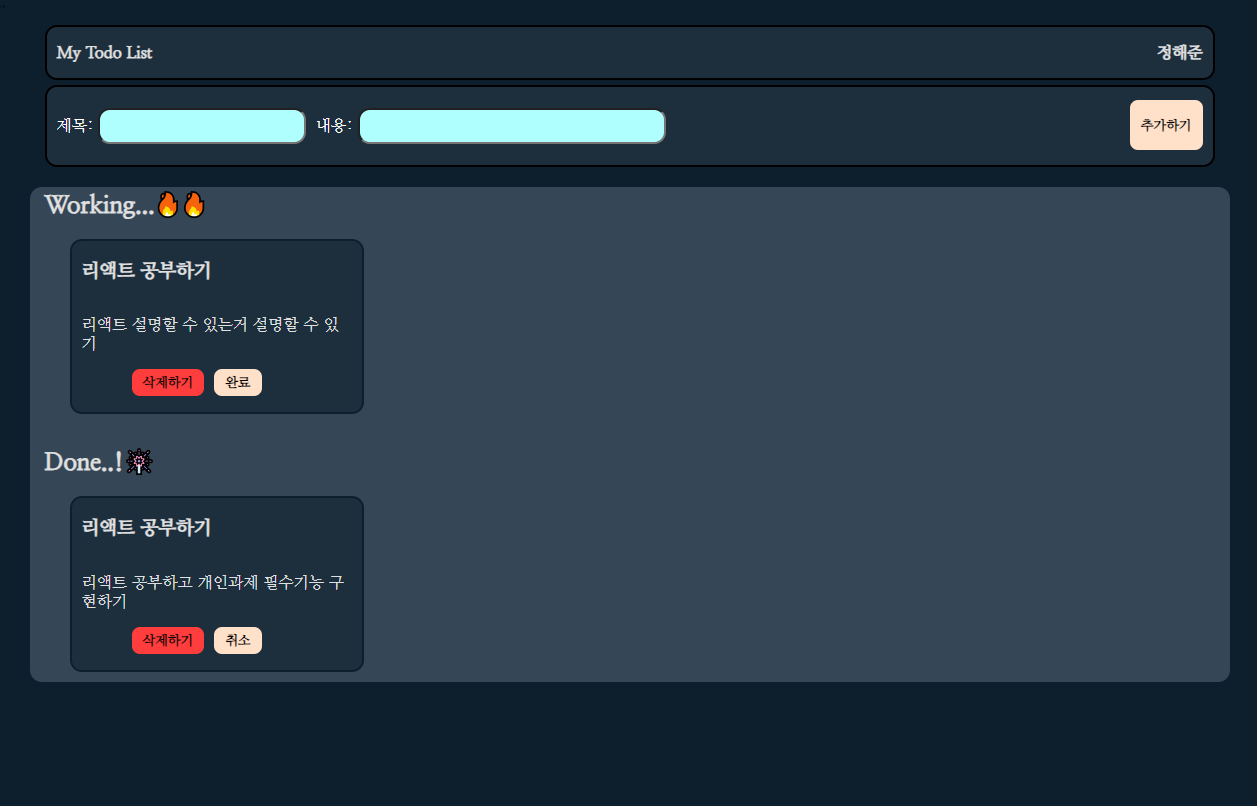
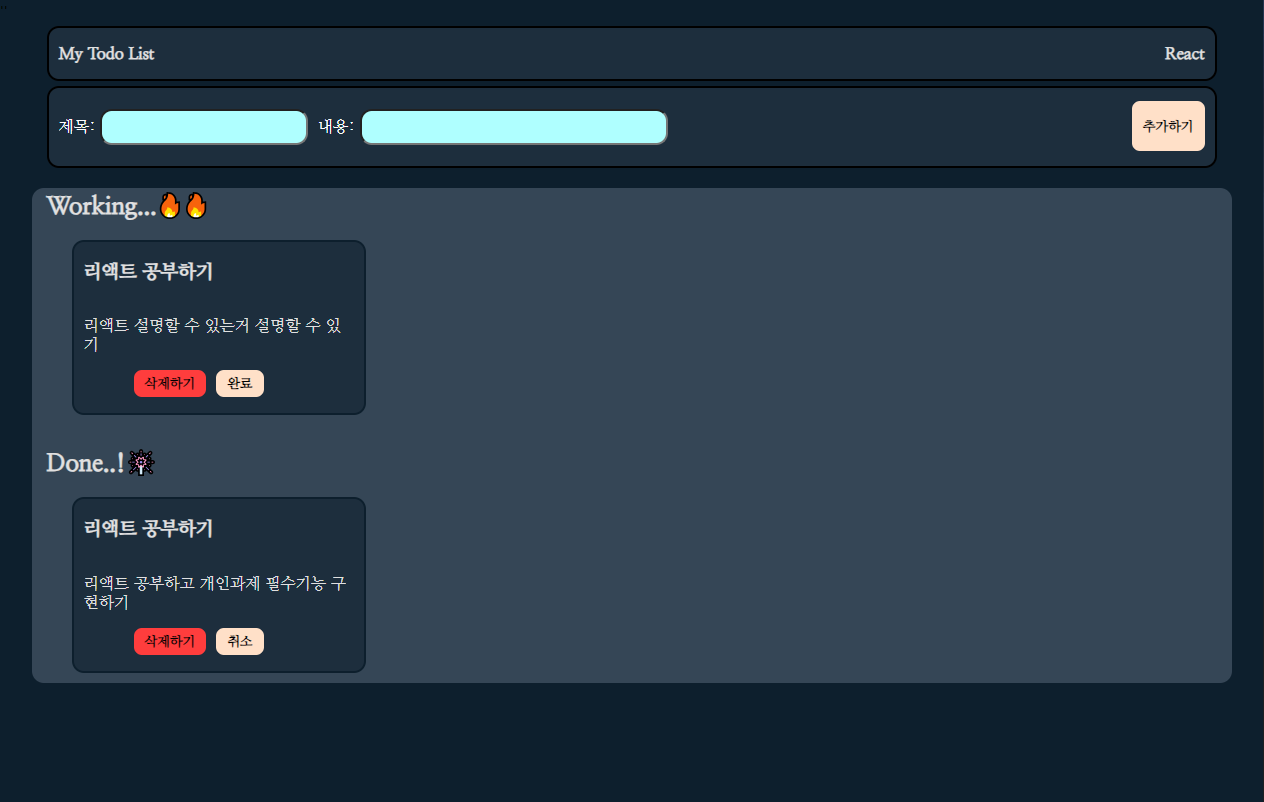
docx: 마크다운 작성 및 이미지 변경

diff --git a/src/components/Header.jsx b/src/components/Header.jsx
@@ -41,7 +41,7 @@ function Header({ contents, setContents }) {
     <header>
       <section className="title">
         <p>My Todo List</p>
-        <p>정해준</p>
+        <p>React</p>
       </section>
       <section className="add-todo">
         <form className="content-add" onSubmit={addSubmitEvent}>
